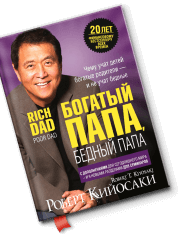
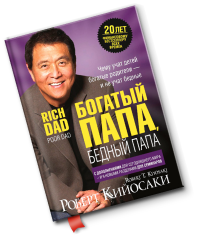
Commit

diff --git a/src/twig/blocks/main/main.scss b/src/twig/blocks/main/main.scss
@@ -92,7 +92,7 @@
       }
       img{
         opacity: 0;
-        margin-left: -10px;
+        margin-left: -25px;
         @include media-breakpoint-down(sm) {
           opacity: 1;
         }

diff --git a/app/css/style.css b/app/css/style.css
@@ -5590,7 +5590,7 @@ label.error {
     }
 }
 .main-book-img img {
-    margin-left: -10px; 
+    margin-left: -25px; 
 
     opacity: 0;
 }
